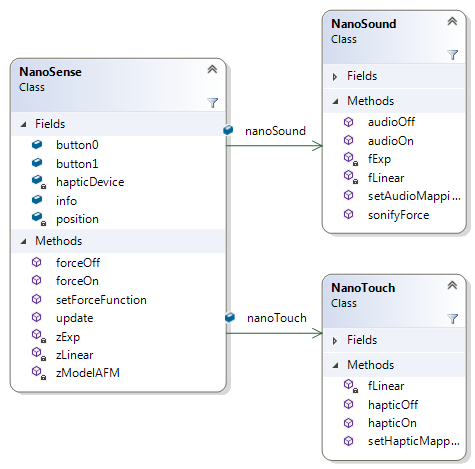
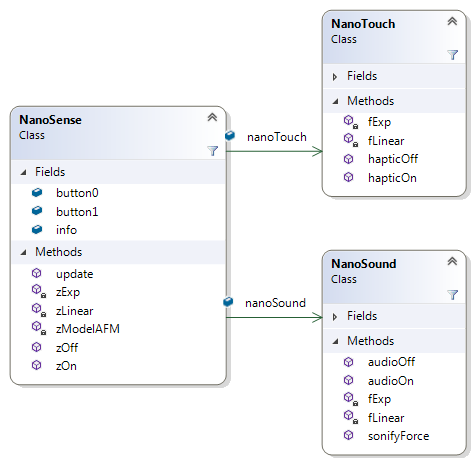
Add files via upload

diff --git a/NanoSense.cpp b/NanoSense.cpp
@@ -12,19 +12,14 @@
 
 NanoSense::NanoSense()
 {
-	forceFlag = true,
-	fFunction = 0;		// select force function
-	fNow = 0;			// force from z function mapping
+	zFlag = true;
+	zFunction = 0;		// select z to force function
+	fNow = 0;			// current force from z function mapping
 	button0 = false;
 	button1 = false;
 	diffPosition.set(0.0, 0.0, 0.0);
 	desiredPosition.set(0.0, 0.0, 0.1);
 
-						// create a thread which starts the main haptics rendering loop
-/*
-	hapticsThread = new cThread();
-	hapticsThread->start((a_function)&updateHaptics, CTHREAD_PRIORITY_HAPTICS);
-*/
 	// create a haptic device handler
 	handler = new cHapticDeviceHandler();
 
@@ -50,19 +45,19 @@ NanoSense::~NanoSense()
 	delete handler;
 }
 
-void NanoSense::forceOn()
+void NanoSense::zOn()
 {
-	forceFlag = true;
+	zFlag = true;
 }
 
-void NanoSense::forceOff()
+void NanoSense::zOff()
 {
-	forceFlag = false;
+	zFlag = false;
 }
 
-void NanoSense::forceToggle()
+void NanoSense::zToggle()
 {
-	forceFlag = !forceFlag;
+	zFlag = !zFlag;
 }
 
 /*------------------------------------
@@ -98,17 +93,17 @@ double NanoSense::zModelAFM(double z)
 void NanoSense::setForceFunction(int f)
 {
 	if (f > 2) f = 0;
-	fFunction = f;
+	zFunction = f;
 }
 
 void NanoSense::changeForceFunction()
 {
-	setForceFunction(++fFunction);
+	setForceFunction(++zFunction);
 }
 
 double NanoSense::forceFunction(double z)
 {
-	switch (fFunction)
+	switch (zFunction)
 	{
 		case 0:	fNow = zLinear(z); break;
 		case 1:	fNow = zExp(z); break;
@@ -151,7 +146,7 @@ void NanoSense::update(void)
 	diffPosition = desiredPosition - position;
 	forceFunction(diffPosition.z()); // map the z position through a Force Function
 
-	if (forceFlag)
+	if (zFlag)
 	{
 		double antiG = 0.65; // anti gravity on stylus
 		double zForce = getForceNow();

diff --git a/00-nanosense.cpp b/00-nanosense.cpp
@@ -452,13 +452,13 @@ void keyCallback(GLFWwindow* a_window, int a_key, int a_scancode, int a_action, 
     // option - enable/disable force field
     else if (a_key == GLFW_KEY_1)
     {
-		nanoSense->forceToggle();
-		cout << "> Toggle Force On/OFF         \r";
+		nanoSense->zToggle();
+		cout << "> Toggle Z to Force On/OFF         \r";
     }
 	else if (a_key == GLFW_KEY_2)
 	{
 		nanoSense->nanoSound.audioToggle();
-		cout << "> Toggle Audio On/OFF         \r";
+		cout << "> Toggle Force to Audio On/OFF         \r";
 	}
     // option - toggle fullscreen
     else if (a_key == GLFW_KEY_F)

diff --git a/NanoSense.h b/NanoSense.h
@@ -23,9 +23,9 @@ public:
 	NanoSound nanoSound;
 	NanoTouch nanoTouch;
 
-	void forceOn();
-	void forceOff();
-	void forceToggle();
+	void zOn();
+	void zOff();
+	void zToggle();
 
 	cHapticDeviceInfo info;	// haptic device info
 	bool button0, button1; // buttons
@@ -39,9 +39,9 @@ public:
 	void update(void);	// the main haptics audio loop
 
 private:
-	bool forceFlag;
+	bool zFlag;
 	double fNow;	// force from z function
-	int fFunction;	// select force function
+	int zFunction;	// select force function
 
 	// various z functions
 	double zLinear(double z); // linear
